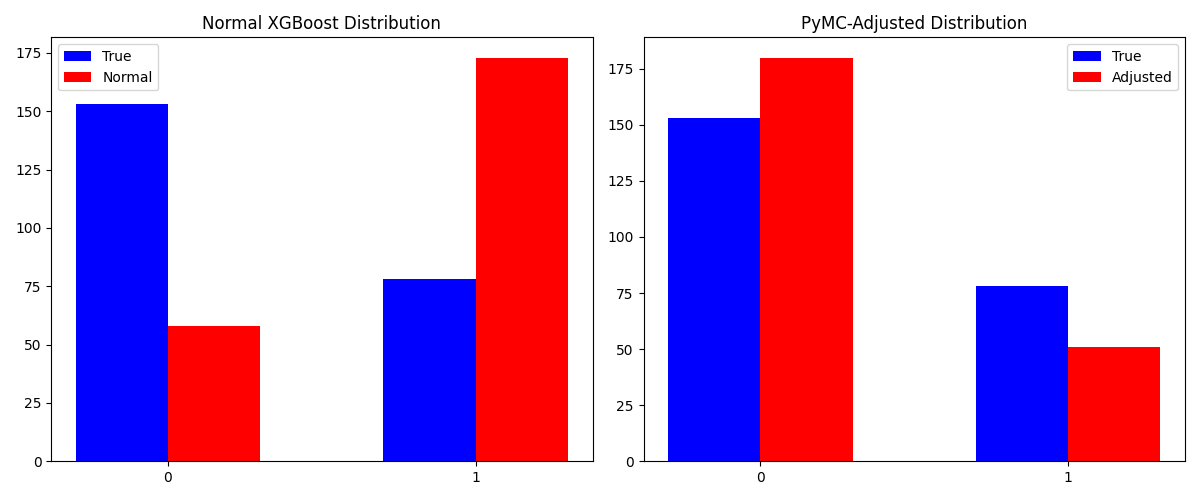
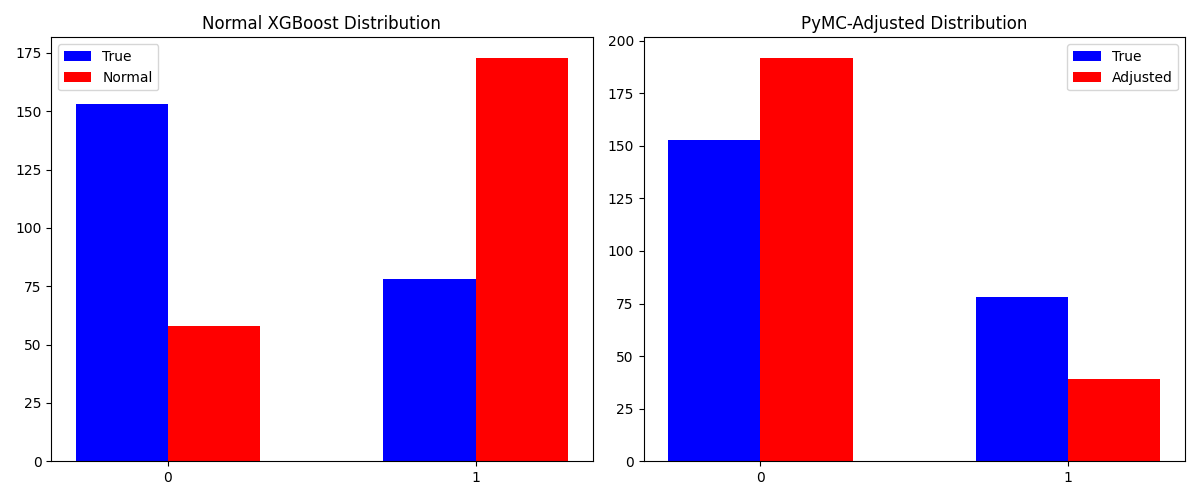
Added more distributions to xgboost, pending vector paramenters

diff --git a/app/models/pymc_adjust.py b/app/models/pymc_adjust.py
@@ -4,18 +4,83 @@ from scipy.special import expit
 from app.utils import conf_manager
 
 
-# Configuracion de la distribución
 def get_config_params():
 
     custom_params = conf_manager.get_value("custom_parameters")
+    if custom_params is None:
+        raise ValueError("custom_parameters not found in config or is None")
+
+    def parse_vector(val):
+        if val is None:
+            return None
+        if isinstance(val, str):
+            val = val.strip()
+            if val == "":
+                return None
+            return np.array([float(x) for x in val.split(",")])
+        if isinstance(val, (list, tuple, np.ndarray)):
+            return np.array(val)
+        return val
+
+    for key in ["alpha_vector", "p_vector", "weights", "means", "sigmas"]:
+        if key in custom_params:
+            custom_params[key] = parse_vector(custom_params[key])
+
     distribution_params = {
         "Normal": {"mu": custom_params["mean"], "sigma": custom_params["sigma"]},
         "HalfNormal": {"sigma": custom_params["sigma"]},
         "Cauchy": {"alpha": custom_params["alpha"], "beta": custom_params["beta"]},
         "Exponential": {"lam": custom_params["lambda"]},
+        "Beta": {"alpha": custom_params["alpha"], "beta": custom_params["beta"]},
+        "ChiSquared": {"nu": custom_params["nu"]},
+        "ExGaussian": {
+            "mu": custom_params["mu"],
+            "sigma": custom_params["sigma"],
+            "nu": custom_params["nu"],
+        },
+        "Gamma": {"alpha": custom_params["alpha"], "beta": custom_params["beta"]},
+        "Logistic": {"mu": custom_params["mu"], "s": custom_params["scale"]},
+        "LogNormal": {"mu": custom_params["mu"], "sigma": custom_params["sigma"]},
+        "Uniform": {"lower": custom_params["lower"], "upper": custom_params["upper"]},
+        "Weibull": {"alpha": custom_params["alpha"], "beta": custom_params["beta"]},
+        "Bernoulli": {"p": custom_params["p"]},
+        "Binomial": {"n": custom_params["n"], "p": custom_params["p"]},
+        "BetaBinomial": {
+            "alpha": custom_params["alpha"],
+            "beta": custom_params["beta"],
+            "n": custom_params["n"],
+        },
+        "Categorical": {"p": custom_params["p"]},
+        "Poisson": {"mu": custom_params["mu"]},
+        "Dirichlet": {"a": custom_params["alpha_vector"]},
+        "DirichletMultinomial": {
+            "a": custom_params["alpha_vector"],
+            "n": custom_params["n"],
+        },
+        "Multinomial": {"n": custom_params["n"], "p": custom_params["p_vector"]},
+        "NormalMixture": {
+            "w": custom_params["weights"],
+            "mus": custom_params["means"],
+            "sigmas": custom_params["sigmas"],
+        },
+        "GaussianRandomWalk": {"sigma": custom_params["sigma"]},
+        "AR1": {
+            "k": custom_params["k"],
+            "tau": custom_params["tau"],
+            "rho": custom_params["rho"],
+        },
     }
 
-    params = distribution_params[conf_manager.get_value("distribution")]
+    if not distribution_params:
+        raise ValueError("No distribution parameters found in config")
+
+    distribution = conf_manager.get_value("distribution")
+    if distribution is None:
+        raise ValueError("distribution not found in config or is None")
+    if distribution not in distribution_params:
+        raise ValueError(f"Distribution '{distribution}' not supported.")
+
+    params = distribution_params[distribution]
 
     return params
 
@@ -43,6 +108,69 @@ def apply_pymc_adjustment(preds: np.ndarray) -> np.ndarray:
         "Exponential": lambda name, params, shape: pm.Exponential(
             name, lam=params["lam"], shape=shape
         ),
+        "Beta": lambda name, params, shape: pm.Beta(
+            name, alpha=params["alpha"], beta=params["beta"], shape=shape
+        ),
+        "ChiSquared": lambda name, params, shape: pm.ChiSquared(
+            name, nu=params["nu"], shape=shape
+        ),
+        "ExGaussian": lambda name, params, shape: pm.ExGaussian(
+            name, mu=params["mu"], sigma=params["sigma"], nu=params["nu"], shape=shape
+        ),
+        "Gamma": lambda name, params, shape: pm.Gamma(
+            name, alpha=params["alpha"], beta=params["beta"], shape=shape
+        ),
+        "Logistic": lambda name, params, shape: pm.Logistic(
+            name, mu=params["mu"], s=params["s"], shape=shape
+        ),
+        "LogNormal": lambda name, params, shape: pm.LogNormal(
+            name, mu=params["mu"], sigma=params["sigma"], shape=shape
+        ),
+        "Uniform": lambda name, params, shape: pm.Uniform(
+            name, lower=params["lower"], upper=params["upper"], shape=shape
+        ),
+        "Weibull": lambda name, params, shape: pm.Weibull(
+            name, alpha=params["alpha"], beta=params["beta"], shape=shape
+        ),
+        "Bernoulli": lambda name, params, shape: pm.Bernoulli(
+            name, p=params["p"], shape=shape
+        ),
+        "Binomial": lambda name, params, shape: pm.Binomial(
+            name, n=params["n"], p=params["p"], shape=shape
+        ),
+        "BetaBinomial": lambda name, params, shape: pm.BetaBinomial(
+            name, alpha=params["alpha"], beta=params["beta"], n=params["n"], shape=shape
+        ),
+        "Categorical": lambda name, params, shape: pm.Categorical(
+            name, p=params["p"], shape=shape
+        ),
+        "Poisson": lambda name, params, shape: pm.Poisson(
+            name, mu=params["mu"], shape=shape
+        ),
+        "Dirichlet": lambda name, params, shape: pm.Dirichlet(
+            name, a=params["a"], shape=shape
+        ),
+        "DirichletMultinomial": lambda name, params, shape: pm.DirichletMultinomial(
+            name, a=params["a"], n=params["n"], shape=shape
+        ),
+        "Multinomial": lambda name, params, shape: pm.Multinomial(
+            name, n=params["n"], p=params["p"], shape=shape
+        ),
+        "NormalMixture": lambda name, params, shape: pm.Mixture(
+            name,
+            w=params["w"],  # weights
+            comp_dists=[
+                pm.Normal.dist(mu=mu, sigma=sigma, shape=shape)
+                for mu, sigma in zip(params["mus"], params["sigmas"])
+            ],
+            shape=shape,
+        ),
+        "GaussianRandomWalk": lambda name, params, shape: pm.GaussianRandomWalk(
+            name, sigma=params["sigma"], shape=shape
+        ),
+        "AR1": lambda name, params, shape: pm.AR(
+            name, k=params["k"], tau=params["tau"], rho=params["rho"], shape=shape
+        ),
     }
 
     # Detección de binario o multiclass
@@ -53,13 +181,12 @@ def apply_pymc_adjustment(preds: np.ndarray) -> np.ndarray:
     if dist_func is None:
         raise ValueError(f"Distribución '{distribution}' no soportada.")
 
-    with pm.Model() as model:
+    with pm.Model() as _:
 
         adjustment = dist_func("adjustment", params, shape=shape)
         adjusted_logits = preds + adjustment
 
         trace = pm.sample(500, tune=500, chains=2, cores=4, progressbar=False)
-        # trace = pm.sample(1000, return_inferencedata=False, progressbar=False)
 
         if is_multiclass:
             adjustment_samples = (

diff --git a/app/routes/training.py b/app/routes/training.py
@@ -1,3 +1,4 @@
+from importlib.metadata import distribution
 import os
 from pydantic import BaseModel
 from app.utils import conf_manager
@@ -13,7 +14,7 @@ class TrainRequest(BaseModel):
     method: str  # "split" or "cv"
     value: int  # if method=="cv", value represents num_folds; for "split", a default is used
     rounds: int  # number of rounds for custom training
-    distribution: str = None  # used for custom training
+    distribution: str = ""  # used for custom training
     params: dict  # additional parameters if needed
 
 
@@ -30,6 +31,12 @@ def get_selected_filepath() -> str:
     if loaded_data_path and not os.path.isabs(loaded_data_path):
         base_dir = os.path.abspath(os.curdir)
         return os.path.join(base_dir, loaded_data_path)
+
+    if not loaded_data_path:
+        raise HTTPException(
+            status_code=400,
+            detail="No data file has been loaded. Please load a data file first.",
+        )
 
     return loaded_data_path
 
@@ -50,7 +57,13 @@ async def train_normal_model(request: TrainRequest):
         # Retrieve model parameters from the settings file
         model_params = conf_manager.get_value("model_parameters")
 
-        _, evals_result = train_normal_xgboost(data_path, model_params, request.method)
+        if not model_params:
+            raise HTTPException(
+                status_code=400,
+                detail="No model parameters found",
+            )
+
+        _, _ = train_normal_xgboost(data_path, model_params, request.method)
 
         print("Model trained successfully")
         return {"message": "Modelo entrenado exitosamente"}
@@ -78,12 +91,18 @@ async def train_custom_model(request: TrainRequest):
         # Retrieve custom parameters from the settings file
         model_params = conf_manager.get_value("model_parameters")
 
+        if not model_params:
+            raise HTTPException(
+                status_code=400,
+                detail="No model parameters found in settings.config.",
+            )
+
         if request.method.lower() != "split":
             raise HTTPException(
                 status_code=400,
                 detail="El entrenamiento custom solo está soportado con el método 'split'.",
             )
-        _, evals_result = train_custom_xgboost(
+        _, _ = train_custom_xgboost(
             data_path, model_params, request.distribution, request.method
         )
 
@@ -110,6 +129,12 @@ async def train_both_models(request: TrainRequest):
 
         model_params = conf_manager.get_value("model_parameters")
 
+        if not model_params:
+            raise HTTPException(
+                status_code=400,
+                detail="No model parameters found in settings.config.",
+            )
+
         _, normal_results = train_normal_xgboost(
             data_path, model_params, request.method
         )
@@ -117,7 +142,6 @@ async def train_both_models(request: TrainRequest):
             data_path, model_params, request.distribution, request.method
         )
 
-        # BASE_DIR = os.path.join(os.path.dirname(os.path.dirname(__file__)), "data")
         plots_dir = os.path.join("app", "data", "plots")
         if not os.path.exists(plots_dir):
             os.makedirs(plots_dir)
